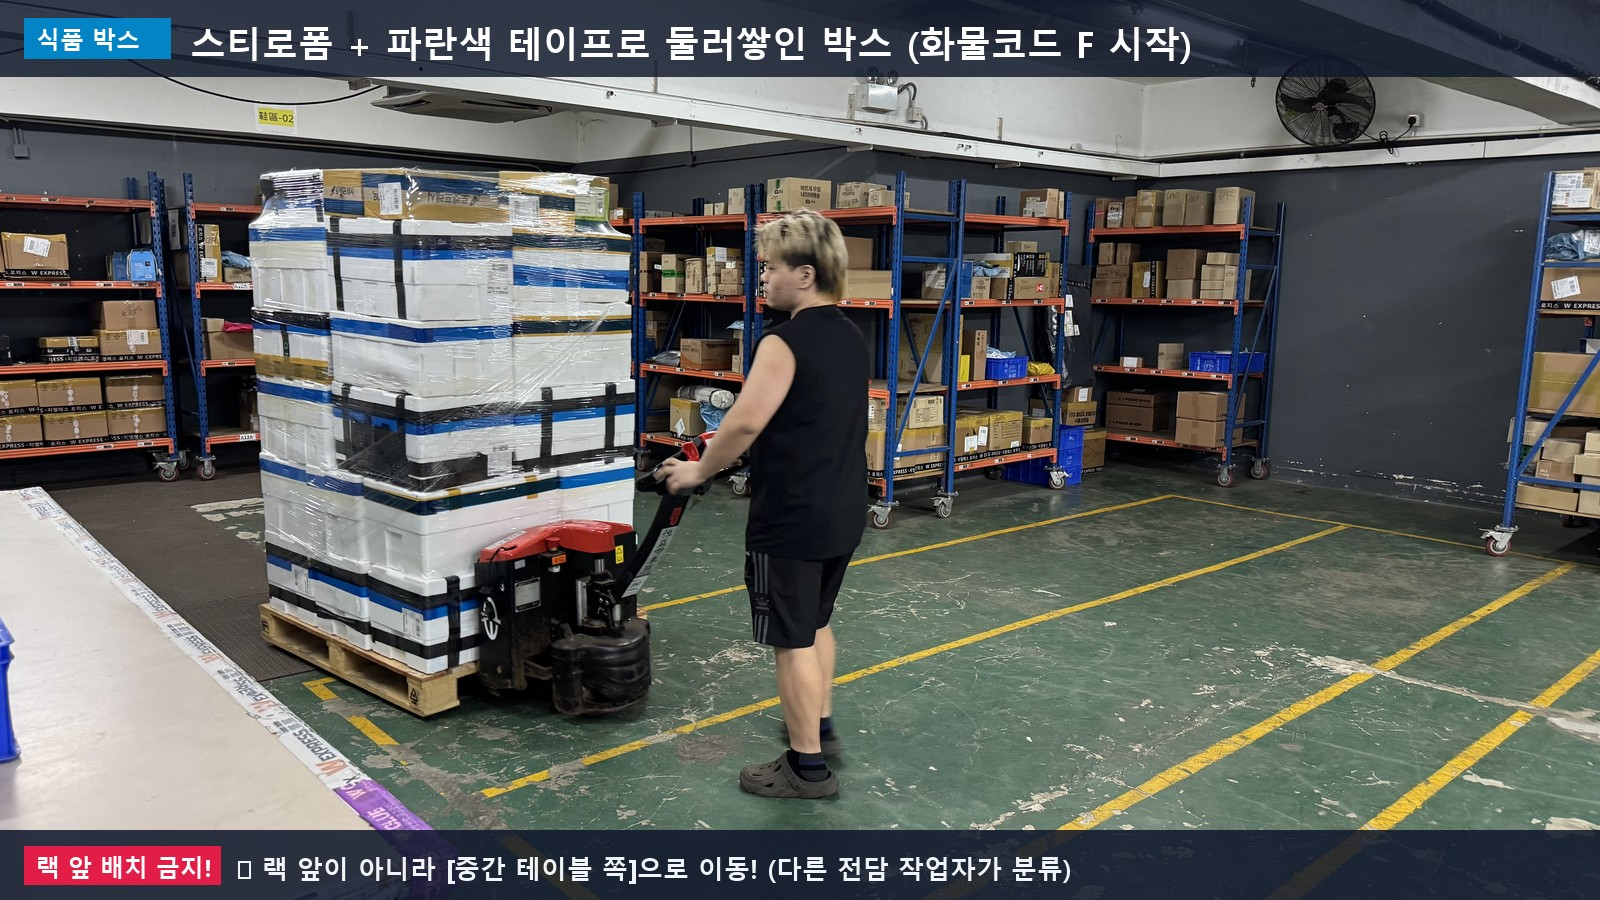
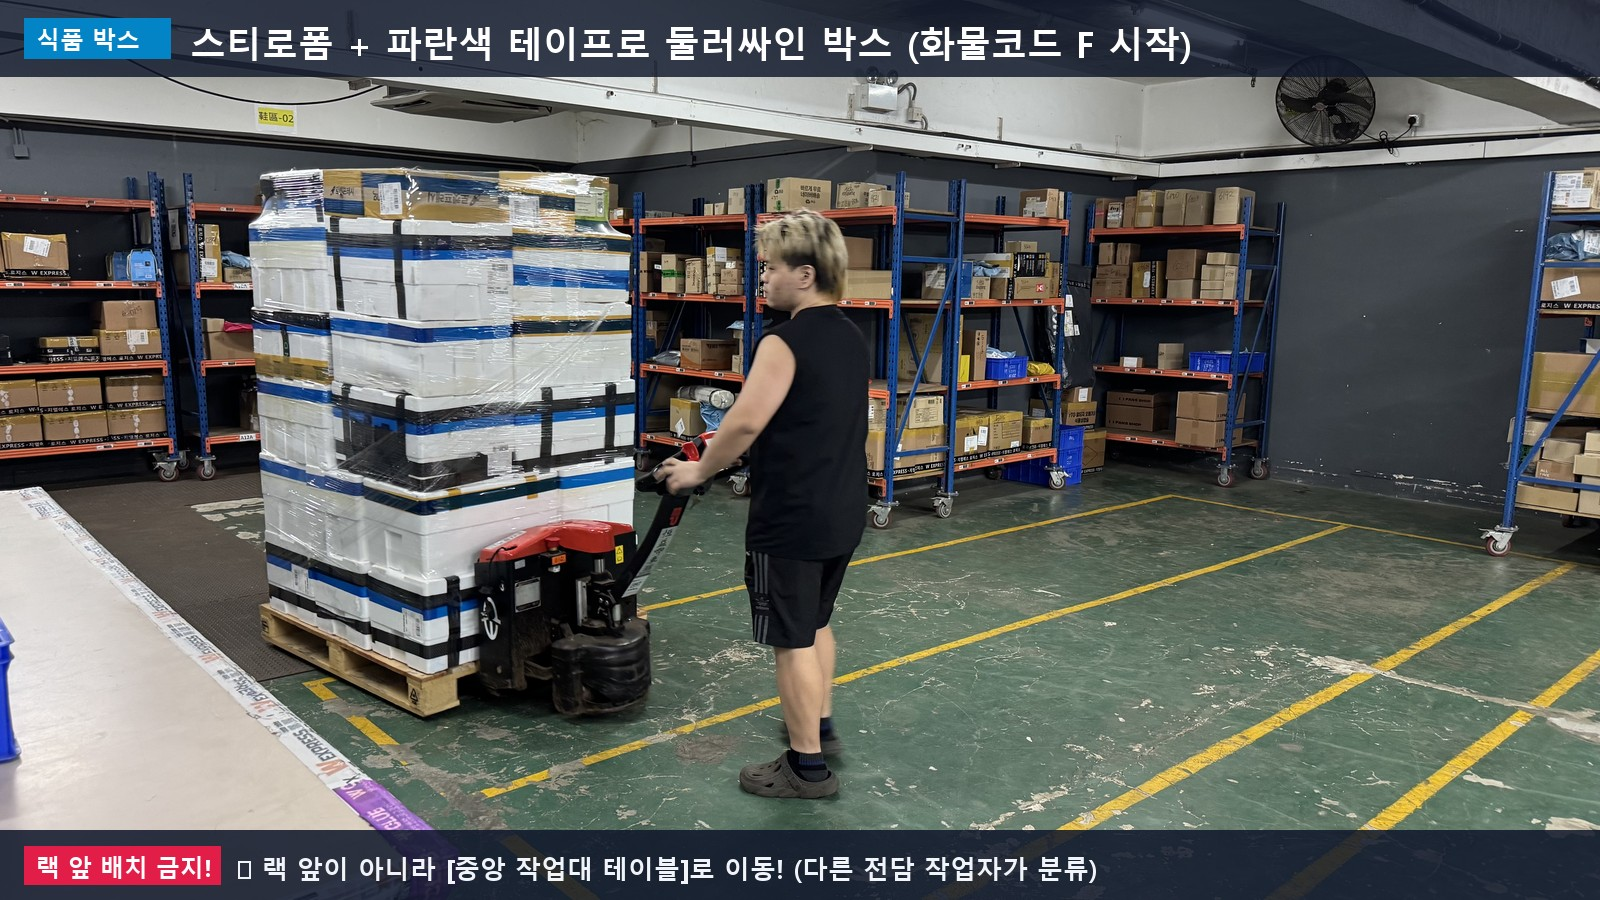
refactor(express): refine food box concurrent sorting, add scannable 3 cargo forms grid, and standardize to 중앙 작업대 테이블

Changed region(s): [[0.3125, 0.9333, 0.6875, 0.9956], [0.4375, 0.0311, 0.5, 0.0622]]

diff --git a/src/locales/ko.js b/src/locales/ko.js
@@ -247,14 +247,18 @@ export default {
         title: "파레트 입고 및 랙 앞(0~9번) 1차 분류",
         sub: "파레트 반입 · 포장 해체 · 송장 주소란 고객 ID 확인 · 0~9번 랙 앞 바닥 배치",
         calloutHead: "1차 분류 작업이란?",
-        calloutLead: "창고 안으로 반입된 파레트의 화물들을 송장에 적힌 번호에 맞춰 작업 통로에 분배하는 작업입니다. 파레트 위 화물을 해체하고, 식품 박스(파란 테이프)는 중간 테이블로 먼저 뺀 뒤, 일반 제품들을 고객 ID(0~9번)에 맞춰 랙 앞에 나누어 놓아야 다음 단계(라벨링 및 출고 패킹)를 순조롭게 진행할 수 있습니다.",
+        calloutLead: "창고 안으로 반입된 파레트의 화물들을 해체한 뒤, 송장 주소란의 고객 ID(0~9번)에 맞춰 0~9번 랙 앞 바닥 통로에 분배하여 가져다 놓는 작업입니다. (분류 작업을 진행하면서 파란색 테이프로 둘러싸인 식품 박스는 랙 앞이 아니라 '중앙 작업대 테이블'에 가져다 놓습니다.)",
         stepsWithPhotos: [
           {
             stepNo: "1",
             title: "파레트 창고 반입 및 화물 해체 (마대 · 콘솔 상자 개봉)",
             desc: "창고 앞 파레트를 파레트 자키(전동/수동)로 창고 내부 작업 공간으로 끌고 들어와 랩을 벗겨냅니다.",
+            cargoForms: [
+              { icon: "📦", name: "개별 상자", desc: "겉면에 송장이 바로 부착된 일반 박스" },
+              { icon: "📦", name: "콘솔 상자", desc: "대형 상자 안에 여러 개별 소포가 든 박스 (칼 개봉)" },
+              { icon: "🛍", name: "마대 (포대자루)", desc: "큰 자루 안에 여러 개별 화물이 담긴 형태 (칼 절개)" }
+            ],
             paragraphs: [
-              "파레트 위에는 크게 3가지 형태의 화물이 들어옵니다: ①송장이 겉면에 바로 붙어있는 개별 상자, ②큰 박스 안에 여러 비닐 소포가 든 콘솔 상자, ③포대 자루에 담긴 마대 화물입니다.",
               "마대와 콘솔 상자는 커터칼로 테이프나 자루를 가볍게 잘라내어 개봉합니다.",
               "내부의 개별 화물들을 모두 꺼내어 송장이 위로 보이도록 바닥에 정돈해 둡니다. (칼을 깊숙이 찔러 넣으면 내부 상품이 손상될 수 있으므로 테이프와 자루 겉면만 살짝 절개합니다.)"
             ],
@@ -304,17 +308,17 @@ export default {
               note: "주소 끝에 적힌 W01*-**** 번호가 분류 기준이 되는 고객 ID입니다."
             },
             foodBoxCard: {
-              title: "식품 박스(파란 테이프, F코드) ➔ [중간 테이블] 이동",
-              desc: "스티로폼 상자에 '파란색 테이프'가 둘러싸여 있고, 화물 코드가 'F'로 시작하는 박스는 식품(Food)입니다. 0~9번 랙 앞에 두지 않고, 작업장 [중간 테이블 쪽]에 따로 가져다 놓습니다.",
+              title: "식품 박스(파란 테이프, F코드) ➔ [중앙 작업대 테이블] 이동",
+              desc: "분류 작업을 진행하면서 스티로폼에 '파란색 테이프'가 둘러싸여 있는 상자를 발견하면, 0~9번 랙 앞에 두지 않고 [중앙 작업대 테이블]에 가져다 놓습니다.",
               bullets: [
                 "파란색 테이프가 둘러진 스티로폼 상자 = 식품 박스 (화물코드 F 시작)",
-                "랙 앞 배치 금지! ➔ 작업장 중간 테이블 쪽으로 이동",
-                "식품(F박스)은 주로 다른 전담 작업자들이 분류하므로, 우리는 일반 제품 분류에 집중"
+                "0~9번 랙 앞이 아니라 [중앙 작업대 테이블]에 이동 배치",
+                "식품(F박스)은 주로 다른 전담 작업자분들이 분류하므로, 우리는 일반 제품 분류에 집중"
               ],
               photo: {
                 src: "/express/01-food-box.jpg",
                 title: "식품 박스 실물 현장 (파란색 테이프)",
-                desc: "스티로폼에 파란색 테이프로 둘러싸인 식품 박스(F코드)는 랙 앞이 아니라 중간 테이블 쪽에 이동 배치"
+                desc: "스티로폼에 파란색 테이프로 둘러싸인 식품 박스(F코드)는 중앙 작업대 테이블에 이동 배치"
               }
             },
             exceptionCard: {
@@ -341,7 +345,7 @@ export default {
         checklists: [
           "❌ 이미 붙어있는 QR 화물 ID가 아니라, ⭕ 택배 송장 주소란 끝의 'W01*-****' 고객 ID를 확인했는가?",
           "고객 ID 뒤 네 자리 중 첫 번째 숫자에 맞춰 0~9번 랙 앞 바닥에 가져다 놓았는가? (예: W010-0161 ➔ 0번 랙)",
-          "🧊 스티로폼에 파란색 테이프가 둘러진 식품 박스(F코드)는 랙 앞이 아니라 '중간 테이블 쪽'에 가져다 놓았는가?",
+          "🧊 파란색 테이프가 둘러진 식품 박스(F코드)는 랙 앞이 아니라 '중앙 작업대 테이블'에 가져다 놓았는가?",
           "WB, HG로 시작하거나 고객 ID가 없어서 식별이 어려운 화물은 '래핑테이프 상자 앞쪽'에 따로 모아두었는가?",
           "마대 및 콘솔 상자를 칼로 개봉할 때 내부 상품이 손상되지 않도록 주의했는가?"
         ]

diff --git a/src/components/QuickSearchModal.jsx b/src/components/QuickSearchModal.jsx
@@ -122,8 +122,8 @@ export function QuickSearchModal({ isOpen, onClose, onNavigate }) {
       page: 0,
       badge: lang === 'en' ? 'Express 01' : lang === 'zh-HK' ? '特快 01' : '익스프레스 01',
       title: lang === 'en' ? '01. Pallet Inbound & Customer ID Rack Sorting (0–9)' : lang === 'zh-HK' ? '01. 卡板到貨及依客戶 ID 貨架分類 (0~9)' : '01. 파레트 입고 · 고객 ID 기준 0~9번 랙 분류',
-      desc: lang === 'en' ? 'Pallet inbound & sorting. Move food boxes (blue tape, F-code) to center table. Sort general boxes to racks 0-9 by customer ID W01*-****.' : lang === 'zh-HK' ? '卡板到貨與分類。食品箱(藍色膠帶、F開頭)移至中間工作台。一般貨物依客戶ID W01*-****移至0~9號貨架。' : '파레트 입고 및 분류. 스티로폼 파란 테이프 식품 박스(F코드)는 중간 테이블로 이동. 일반 화물은 송장 고객 ID(W01*-****) 확인 후 0~9번 랙 앞 배치.',
-      keywords: '익스프레스 express 식품박스 파란테이프 파란색테이프 스티로폼 F코드 중간테이블 고객ID W01 W010 0161 3949 5851 8276 래핑테이프 하늘길 210 4번게이트 WB HG 0 1 2 3 4 5 6 7 8 9 랙분류 랙앞 파레트 파레트자키 마대 콘솔박스'
+      desc: lang === 'en' ? 'Pallet inbound & sorting. Move food boxes (blue tape, F-code) to center work table. Sort general boxes to racks 0-9 by customer ID W01*-****.' : lang === 'zh-HK' ? '卡板到貨與分類。食品箱(藍色膠帶、F開頭)移至中央工作台。一般貨物依客戶ID W01*-****移至0~9號貨架。' : '파레트 입고 및 분류. 스티로폼 파란 테이프 식품 박스(F코드)는 중앙 작업대 테이블로 이동. 일반 화물은 송장 고객 ID(W01*-****) 확인 후 0~9번 랙 앞 배치.',
+      keywords: '익스프레스 express 식품박스 파란테이프 파란색테이프 스티로폼 F코드 중앙작업대테이블 중앙작업대 고객ID W01 W010 0161 3949 5851 8276 래핑테이프 하늘길 210 4번게이트 WB HG 0 1 2 3 4 5 6 7 8 9 랙분류 랙앞 파레트 파레트자키 마대 콘솔박스'
     },
     {
       id: 'express-1',

diff --git a/src/components/ExpressViewer.jsx b/src/components/ExpressViewer.jsx
@@ -69,6 +69,23 @@ export function ExpressViewer({ pageIndex, onOpenImage }) {
                 </div>
               )}
 
+              {/* Inbound Cargo 3 Forms Grid (High Scannability) */}
+              {step.cargoForms && step.cargoForms.length > 0 && (
+                <div className="express-cargo-forms-grid">
+                  {step.cargoForms.map((item, cIdx) => (
+                    <div key={cIdx} className="cargo-form-chip">
+                      <div className="cargo-form-icon-wrap">
+                        <span className="cargo-form-icon">{item.icon || '📦'}</span>
+                      </div>
+                      <div className="cargo-form-text">
+                        <strong className="cargo-form-name">{item.name}</strong>
+                        <p className="cargo-form-desc">{item.desc}</p>
+                      </div>
+                    </div>
+                  ))}
+                </div>
+              )}
+
               {/* Narrative Paragraphs */}
               {step.paragraphs && step.paragraphs.length > 0 && (
                 <div className="express-step-narrative">

diff --git a/src/index.css b/src/index.css
@@ -1656,4 +1656,60 @@
   margin-top: 4px;
 }
 
+/* Inbound Cargo 3 Forms Grid (High Scannability) */
+.express-cargo-forms-grid {
+  display: grid;
+  grid-template-columns: repeat(auto-fit, minmax(220px, 1fr));
+  gap: 12px;
+  margin: 6px 0 10px;
+}
+
+.cargo-form-chip {
+  background: #f8fafc;
+  border: 1px solid #e2e8f0;
+  border-radius: 10px;
+  padding: 12px 14px;
+  display: flex;
+  align-items: flex-start;
+  gap: 12px;
+  transition: border-color 0.15s ease, background-color 0.15s ease;
+}
+
+.cargo-form-chip:hover {
+  border-color: #94a3b8;
+  background: #f1f5f9;
+}
+
+.cargo-form-icon-wrap {
+  width: 36px;
+  height: 36px;
+  border-radius: 8px;
+  background: #e2e8f0;
+  display: flex;
+  align-items: center;
+  justify-content: center;
+  font-size: 1.15rem;
+  flex-shrink: 0;
+}
+
+.cargo-form-text {
+  display: flex;
+  flex-direction: column;
+  gap: 3px;
+}
+
+.cargo-form-name {
+  font-size: 0.94rem;
+  font-weight: 800;
+  color: #0f172a;
+}
+
+.cargo-form-desc {
+  font-size: 0.83rem;
+  color: #475569;
+  line-height: 1.45;
+  margin: 0;
+}
+
+
 
